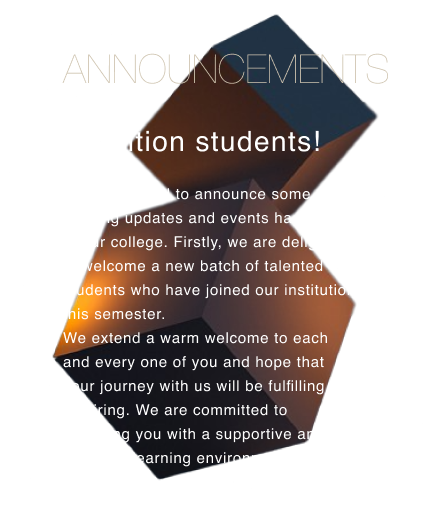
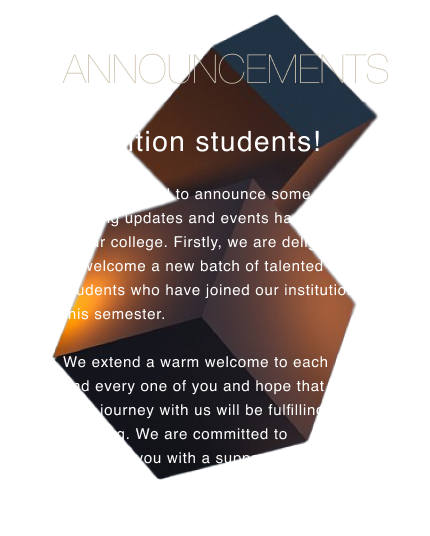
commit

diff --git a/base.css b/base.css
@@ -491,7 +491,7 @@ ul {
     }
 
     .small-container {
-        height: 850px;
+        height: 890px;
     }
 
     .col-2 {
@@ -828,6 +828,8 @@ ul {
         font-size: 12px;
     }
 
+    
+
     .footer {
         background: black;
     }
@@ -858,6 +860,10 @@ ul {
         flex-basis: 100%;
         padding: 5% 1%;
         height: 100px;
+    }
+
+    .footer-col-5 a {
+        font-size: 12px;
     }
 
     .hide1 {
@@ -891,7 +897,13 @@ ul {
     }
 
     .small-container {
-        height: 460px;
+        height: 680px;
+    }
+}
+
+@media only screen and (max-width: 412px) {
+    .small-container {
+        height: 700px;
     }
 }
 
@@ -905,7 +917,7 @@ ul {
     }
 
     .small-container {
-        height: 590px;
+        height: 630px;
     }
 }
 
@@ -921,7 +933,7 @@ ul {
     }
 
     .small-container {
-        height: 450px;
+        height: 490px;
     }
 }
 
@@ -935,6 +947,6 @@ ul {
     }
 
     .small-container {
-        height: 490px;
+        height: 520px;
     }
 }

diff --git a/index.html b/index.html
@@ -108,7 +108,7 @@
                         <ul>
                             <p>Quick Links</p>
                             <li><a href="">Home</a></li>
-                            <li><a href="">Clubs</a></li>
+                            <li><a href="">C&A</a></li>
                             <li><a href="">Contact</a></li>
                         </ul>
                     </div>
